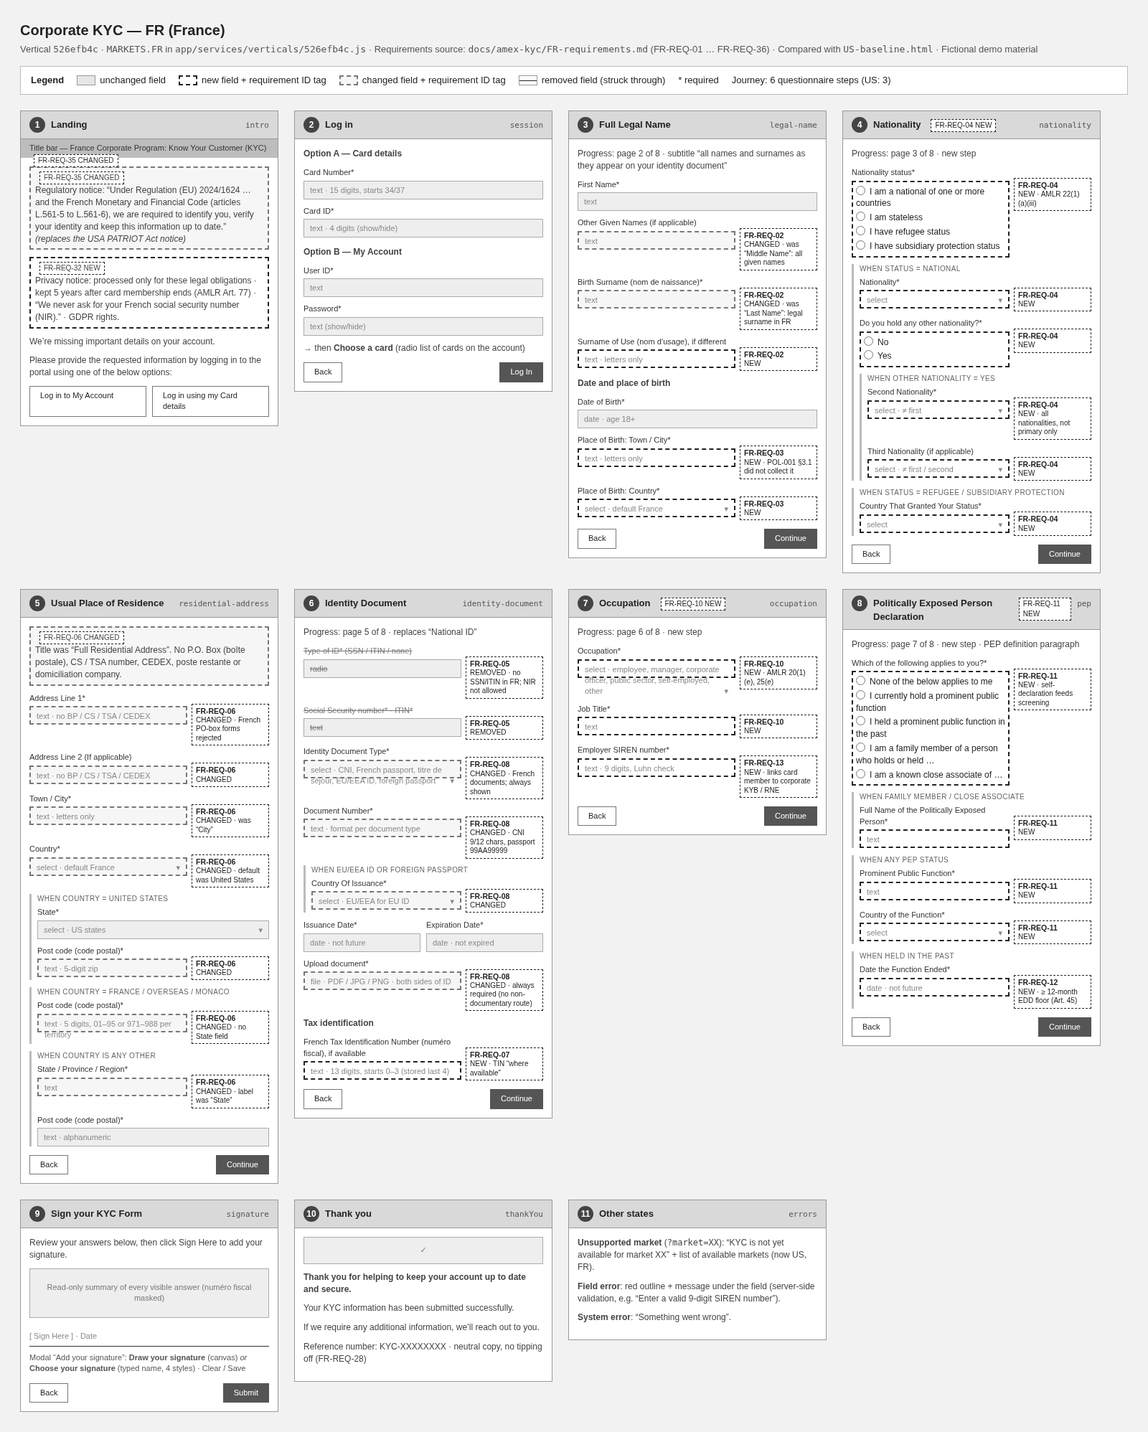
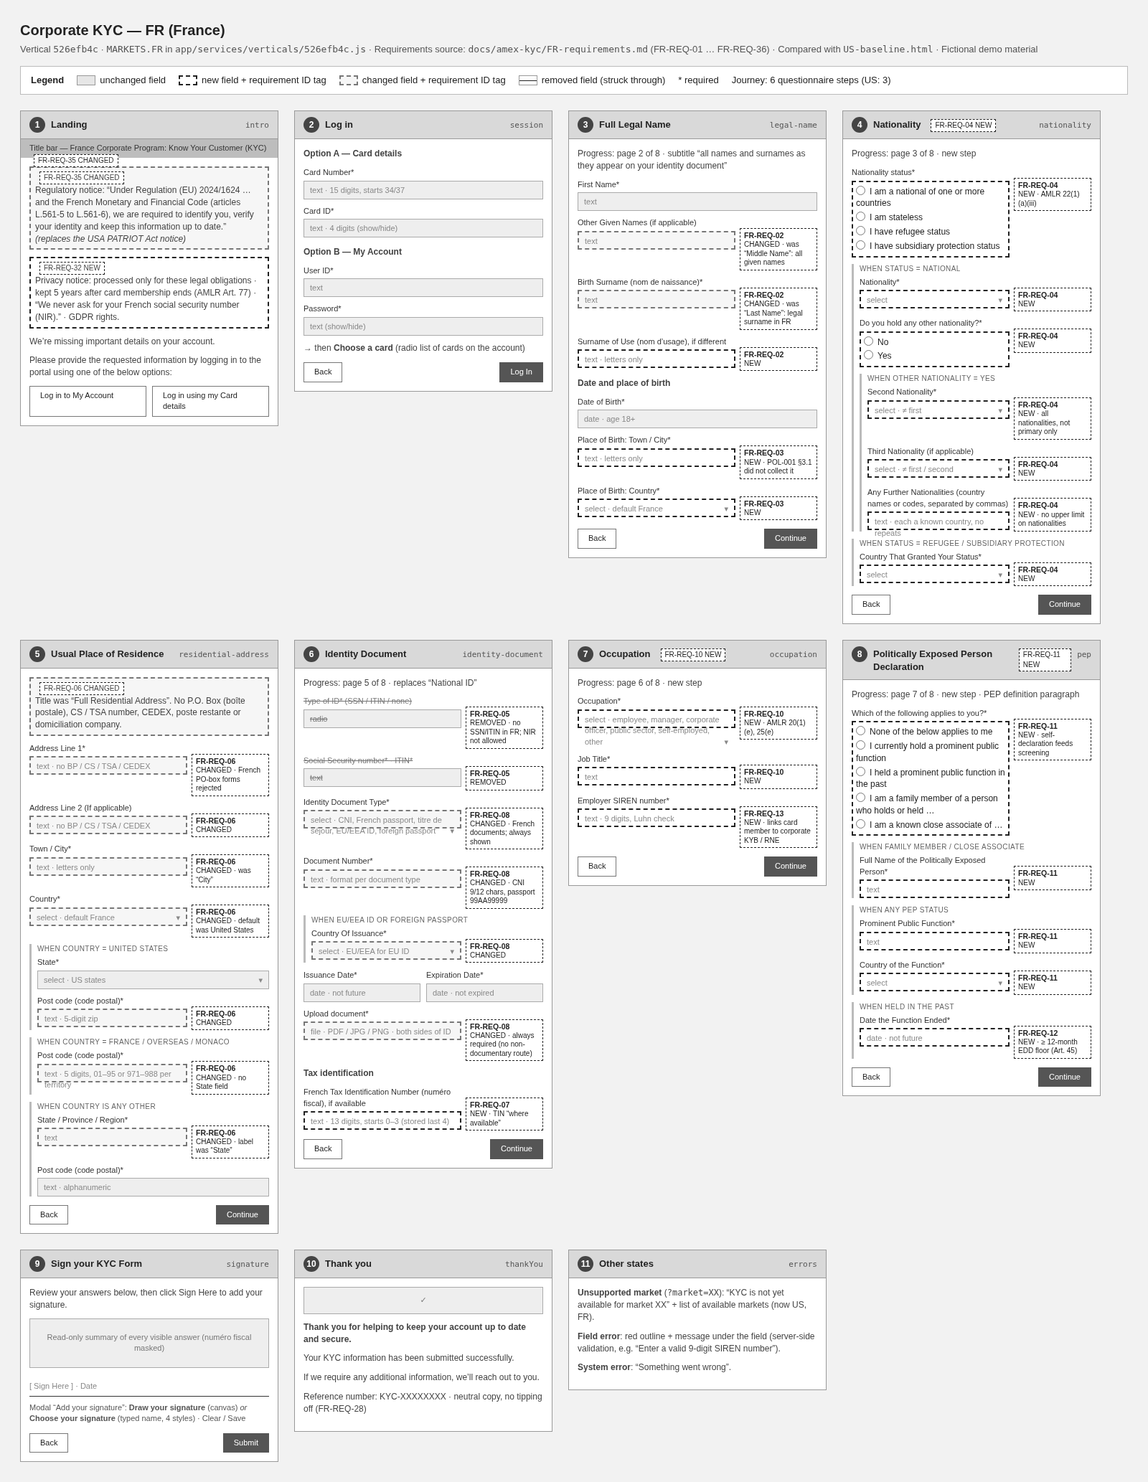
fix: FR questionnaire accepts any number of nationalities (furtherNationalities)

Changed region(s): [[0.0, 0.0, 0.9688, 0.994]]

diff --git a/docs/amex-kyc/wireframes/FR.html b/docs/amex-kyc/wireframes/FR.html
@@ -72,7 +72,7 @@
 <section class="panel"><div class="ph"><span class="n">1</span>Landing<code>intro</code></div><div class="pb"><div class="bar">Title bar — France Corporate Program: Know Your Customer (KYC) <span class="ptag">FR-REQ-35 CHANGED</span></div><p class="p chg"><span class="ptag">FR-REQ-35 CHANGED</span><br>Regulatory notice: “Under Regulation (EU) 2024/1624 … and the French Monetary and Financial Code (articles L.561-5 to L.561-6), we are required to identify you, verify your identity and keep this information up to date.” <i>(replaces the USA PATRIOT Act notice)</i></p><p class="p new"><span class="ptag">FR-REQ-32 NEW</span><br>Privacy notice: processed only for these legal obligations · kept 5 years after card membership ends (AMLR Art. 77) · “We never ask for your French social security number (NIR).” · GDPR rights.</p><p class="p">We’re missing important details on your account.</p><p class="p">Please provide the requested information by logging in to the portal using one of the below options:</p><div class="row2"><div class="btn">Log in to My Account</div><div class="btn">Log in using my Card details</div></div></div></section>
 <section class="panel"><div class="ph"><span class="n">2</span>Log in<code>session</code></div><div class="pb"><p class="p"><b>Option A — Card details</b></p><div class="f"><label>Card Number*</label><div class="in">text · 15 digits, starts 34/37</div></div><div class="f"><label>Card ID*</label><div class="in">text · 4 digits (show/hide)</div></div><p class="p" style="margin-top:12px"><b>Option B — My Account</b></p><div class="f"><label>User ID*</label><div class="in">text</div></div><div class="f"><label>Password*</label><div class="in">text (show/hide)</div></div><p class="p">→ then <b>Choose a card</b> (radio list of cards on the account)</p><div class="btns"><span class="btn">Back</span><span class="btn pri">Log In</span></div></div></section>
 <section class="panel"><div class="ph"><span class="n">3</span>Full Legal Name<code>legal-name</code></div><div class="pb"><p class="p">Progress: page 2 of 8 · subtitle “all names and surnames as they appear on your identity document”</p><div class="f"><label>First Name*</label><div class="in">text</div></div><div class="f chg tagged"><div><label>Other Given Names (if applicable)</label><div class="in">text</div></div><div class="tag"><b>FR-REQ-02</b>CHANGED · was “Middle Name”: all given names</div></div><div class="f chg tagged"><div><label>Birth Surname (nom de naissance)*</label><div class="in">text</div></div><div class="tag"><b>FR-REQ-02</b>CHANGED · was “Last Name”: legal surname in FR</div></div><div class="f new tagged"><div><label>Surname of Use (nom d’usage), if different</label><div class="in">text · letters only</div></div><div class="tag"><b>FR-REQ-02</b>NEW</div></div><p class="p"><b>Date and place of birth</b></p><div class="f"><label>Date of Birth*</label><div class="in">date · age 18+</div></div><div class="f new tagged"><div><label>Place of Birth: Town / City*</label><div class="in">text · letters only</div></div><div class="tag"><b>FR-REQ-03</b>NEW · POL-001 §3.1 did not collect it</div></div><div class="f new tagged"><div><label>Place of Birth: Country*</label><div class="in sel">select · default France</div></div><div class="tag"><b>FR-REQ-03</b>NEW</div></div><div class="btns"><span class="btn">Back</span><span class="btn pri">Continue</span></div></div></section>
-<section class="panel"><div class="ph"><span class="n">4</span>Nationality<span class="ptag">FR-REQ-04 NEW</span><code>nationality</code></div><div class="pb"><p class="p">Progress: page 3 of 8 · new step</p><div class="f new tagged"><div><label>Nationality status*</label><div class="radio-box"><div class="radio">I am a national of one or more countries</div><div class="radio">I am stateless</div><div class="radio">I have refugee status</div><div class="radio">I have subsidiary protection status</div></div></div><div class="tag"><b>FR-REQ-04</b>NEW · AMLR 22(1)(a)(iii)</div></div><div class="cond"><div class="when">when status = national</div><div class="f new tagged"><div><label>Nationality*</label><div class="in sel">select</div></div><div class="tag"><b>FR-REQ-04</b>NEW</div></div><div class="f new tagged"><div><label>Do you hold any other nationality?*</label><div class="radio-box"><div class="radio">No</div><div class="radio">Yes</div></div></div><div class="tag"><b>FR-REQ-04</b>NEW</div></div><div class="cond"><div class="when">when other nationality = Yes</div><div class="f new tagged"><div><label>Second Nationality*</label><div class="in sel">select · ≠ first</div></div><div class="tag"><b>FR-REQ-04</b>NEW · all nationalities, not primary only</div></div><div class="f new tagged"><div><label>Third Nationality (if applicable)</label><div class="in sel">select · ≠ first / second</div></div><div class="tag"><b>FR-REQ-04</b>NEW</div></div></div></div><div class="cond"><div class="when">when status = refugee / subsidiary protection</div><div class="f new tagged"><div><label>Country That Granted Your Status*</label><div class="in sel">select</div></div><div class="tag"><b>FR-REQ-04</b>NEW</div></div></div><div class="btns"><span class="btn">Back</span><span class="btn pri">Continue</span></div></div></section>
+<section class="panel"><div class="ph"><span class="n">4</span>Nationality<span class="ptag">FR-REQ-04 NEW</span><code>nationality</code></div><div class="pb"><p class="p">Progress: page 3 of 8 · new step</p><div class="f new tagged"><div><label>Nationality status*</label><div class="radio-box"><div class="radio">I am a national of one or more countries</div><div class="radio">I am stateless</div><div class="radio">I have refugee status</div><div class="radio">I have subsidiary protection status</div></div></div><div class="tag"><b>FR-REQ-04</b>NEW · AMLR 22(1)(a)(iii)</div></div><div class="cond"><div class="when">when status = national</div><div class="f new tagged"><div><label>Nationality*</label><div class="in sel">select</div></div><div class="tag"><b>FR-REQ-04</b>NEW</div></div><div class="f new tagged"><div><label>Do you hold any other nationality?*</label><div class="radio-box"><div class="radio">No</div><div class="radio">Yes</div></div></div><div class="tag"><b>FR-REQ-04</b>NEW</div></div><div class="cond"><div class="when">when other nationality = Yes</div><div class="f new tagged"><div><label>Second Nationality*</label><div class="in sel">select · ≠ first</div></div><div class="tag"><b>FR-REQ-04</b>NEW · all nationalities, not primary only</div></div><div class="f new tagged"><div><label>Third Nationality (if applicable)</label><div class="in sel">select · ≠ first / second</div></div><div class="tag"><b>FR-REQ-04</b>NEW</div></div><div class="f new tagged"><div><label>Any Further Nationalities (country names or codes, separated by commas)</label><div class="in">text · each a known country, no repeats</div></div><div class="tag"><b>FR-REQ-04</b>NEW · no upper limit on nationalities</div></div></div></div><div class="cond"><div class="when">when status = refugee / subsidiary protection</div><div class="f new tagged"><div><label>Country That Granted Your Status*</label><div class="in sel">select</div></div><div class="tag"><b>FR-REQ-04</b>NEW</div></div></div><div class="btns"><span class="btn">Back</span><span class="btn pri">Continue</span></div></div></section>
 <section class="panel"><div class="ph"><span class="n">5</span>Usual Place of Residence<code>residential-address</code></div><div class="pb"><p class="p chg"><span class="ptag">FR-REQ-06 CHANGED</span><br>Title was “Full Residential Address”. No P.O. Box (boîte postale), CS / TSA number, CEDEX, poste restante or domiciliation company.</p><div class="f chg tagged"><div><label>Address Line 1*</label><div class="in">text · no BP / CS / TSA / CEDEX</div></div><div class="tag"><b>FR-REQ-06</b>CHANGED · French PO-box forms rejected</div></div><div class="f chg tagged"><div><label>Address Line 2 (If applicable)</label><div class="in">text · no BP / CS / TSA / CEDEX</div></div><div class="tag"><b>FR-REQ-06</b>CHANGED</div></div><div class="f chg tagged"><div><label>Town / City*</label><div class="in">text · letters only</div></div><div class="tag"><b>FR-REQ-06</b>CHANGED · was “City”</div></div><div class="f chg tagged"><div><label>Country*</label><div class="in sel">select · default France</div></div><div class="tag"><b>FR-REQ-06</b>CHANGED · default was United States</div></div><div class="cond"><div class="when">when Country = United States</div><div class="f"><label>State*</label><div class="in sel">select · US states</div></div><div class="f chg tagged"><div><label>Post code (code postal)*</label><div class="in">text · 5-digit zip</div></div><div class="tag"><b>FR-REQ-06</b>CHANGED</div></div></div><div class="cond"><div class="when">when Country = France / overseas / Monaco</div><div class="f chg tagged"><div><label>Post code (code postal)*</label><div class="in">text · 5 digits, 01–95 or 971–988 per territory</div></div><div class="tag"><b>FR-REQ-06</b>CHANGED · no State field</div></div></div><div class="cond"><div class="when">when Country is any other</div><div class="f chg tagged"><div><label>State / Province / Region*</label><div class="in">text</div></div><div class="tag"><b>FR-REQ-06</b>CHANGED · label was “State”</div></div><div class="f"><label>Post code (code postal)*</label><div class="in">text · alphanumeric</div></div></div><div class="btns"><span class="btn">Back</span><span class="btn pri">Continue</span></div></div></section>
 <section class="panel"><div class="ph"><span class="n">6</span>Identity Document<code>identity-document</code></div><div class="pb"><p class="p">Progress: page 5 of 8 · replaces “National ID”</p><div class="f rem tagged"><div><label>Type of ID* (SSN / ITIN / none)</label><div class="in">radio</div></div><div class="tag"><b>FR-REQ-05</b>REMOVED · no SSN/ITIN in FR; NIR not allowed</div></div><div class="f rem tagged"><div><label>Social Security number* · ITIN*</label><div class="in">text</div></div><div class="tag"><b>FR-REQ-05</b>REMOVED</div></div><div class="f chg tagged"><div><label>Identity Document Type*</label><div class="in sel">select · CNI, French passport, titre de séjour, EU/EEA ID, foreign passport</div></div><div class="tag"><b>FR-REQ-08</b>CHANGED · French documents; always shown</div></div><div class="f chg tagged"><div><label>Document Number*</label><div class="in">text · format per document type</div></div><div class="tag"><b>FR-REQ-08</b>CHANGED · CNI 9/12 chars, passport 99AA99999</div></div><div class="cond"><div class="when">when EU/EEA ID or foreign passport</div><div class="f chg tagged"><div><label>Country Of Issuance*</label><div class="in sel">select · EU/EEA for EU ID</div></div><div class="tag"><b>FR-REQ-08</b>CHANGED</div></div></div><div class="row2"><div class="f"><label>Issuance Date*</label><div class="in">date · not future</div></div><div class="f"><label>Expiration Date*</label><div class="in">date · not expired</div></div></div><div class="f chg tagged"><div><label>Upload document*</label><div class="in">file · PDF / JPG / PNG · both sides of ID</div></div><div class="tag"><b>FR-REQ-08</b>CHANGED · always required (no non-documentary route)</div></div><p class="p"><b>Tax identification</b></p><div class="f new tagged"><div><label>French Tax Identification Number (numéro fiscal), if available</label><div class="in">text · 13 digits, starts 0–3 (stored last 4)</div></div><div class="tag"><b>FR-REQ-07</b>NEW · TIN “where available”</div></div><div class="btns"><span class="btn">Back</span><span class="btn pri">Continue</span></div></div></section>
 <section class="panel"><div class="ph"><span class="n">7</span>Occupation<span class="ptag">FR-REQ-10 NEW</span><code>occupation</code></div><div class="pb"><p class="p">Progress: page 6 of 8 · new step</p><div class="f new tagged"><div><label>Occupation*</label><div class="in sel">select · employee, manager, corporate officer, public sector, self-employed, other</div></div><div class="tag"><b>FR-REQ-10</b>NEW · AMLR 20(1)(e), 25(e)</div></div><div class="f new tagged"><div><label>Job Title*</label><div class="in">text</div></div><div class="tag"><b>FR-REQ-10</b>NEW</div></div><div class="f new tagged"><div><label>Employer SIREN number*</label><div class="in">text · 9 digits, Luhn check</div></div><div class="tag"><b>FR-REQ-13</b>NEW · links card member to corporate KYB / RNE</div></div><div class="btns"><span class="btn">Back</span><span class="btn pri">Continue</span></div></div></section>

diff --git a/tests/526efb4c-kyc.test.js b/tests/526efb4c-kyc.test.js
@@ -293,7 +293,7 @@ describe('France (FR) market', () => {
     expect(form.intro.privacyNotice).toMatch(/NIR/);
     expect(form.steps.map((s) => s.id)).toEqual(['legal-name', 'nationality', 'residential-address', 'identity-document', 'occupation', 'pep']);
     const ids = form.steps.flatMap((s) => s.fields.map((f) => f.id));
-    for (const id of ['usageName', 'birthCity', 'birthCountry', 'nationalityStatus', 'secondNationality', 'idDocumentType', 'taxIdNumber', 'employerSiren', 'pepStatus']) {
+    for (const id of ['usageName', 'birthCity', 'birthCountry', 'nationalityStatus', 'secondNationality', 'furtherNationalities', 'idDocumentType', 'taxIdNumber', 'employerSiren', 'pepStatus']) {
       expect(ids).toContain(id);
     }
     for (const banned of ['ssn', 'itin', 'idType']) expect(ids).not.toContain(banned);
@@ -324,6 +324,10 @@ describe('France (FR) market', () => {
     expect(errs('nationality', { secondNationality: 'FR' }).secondNationality).toMatch(/already/);
     expect(errs('nationality', { thirdNationality: 'US' }).thirdNationality).toMatch(/already/);
     expect(errs('nationality', { thirdNationality: 'DE' }).thirdNationality).toBeUndefined();
+    expect(errs('nationality', { thirdNationality: 'CA', furtherNationalities: 'Belgium, it, Switzerland' })).toEqual({});
+    expect(errs('nationality', { thirdNationality: 'CA', furtherNationalities: 'BE, Narnia' }).furtherNationalities).toMatch(/Narnia/);
+    expect(errs('nationality', { thirdNationality: 'CA', furtherNationalities: 'canada' }).furtherNationalities).toMatch(/already/);
+    expect(errs('nationality', { furtherNationalities: 'BE, Belgium' }).furtherNationalities).toMatch(/already/);
     expect(validate('nationality', { nationalityStatus: 'national', nationality: 'FR', hasOtherNationality: 'no', secondNationality: 'FR' }).valid).toBe(true);
     expect(Object.keys(validate('nationality', { nationalityStatus: 'refugee' }).errors)).toEqual(['protectionCountry']);
     expect(validate('nationality', { nationalityStatus: 'subsidiary-protection', protectionCountry: 'FR' }).valid).toBe(true);
@@ -338,6 +342,7 @@ describe('France (FR) market', () => {
     const byId = Object.fromEntries(fields.map((f) => [f.id, f]));
     const visible = fields.filter((f) => svc.isVisible(f, values, byId)).map((f) => f.id);
     expect(visible).toEqual(['nationalityStatus']);
+    expect(validate('nationality', { ...values, furtherNationalities: 'Narnia' }).valid).toBe(true);
   });
 
   test('residence: French post codes per territory and no BP / CS / TSA / CEDEX addresses', () => {
@@ -410,11 +415,11 @@ describe('France (FR) market', () => {
     expect(Object.keys(invalid.body.errors)).toEqual(['pep']);
 
     const ok = await request('POST', '/api/526efb4c/submissions', {
-      sessionToken: token, market: 'FR', values: { ...FR_VALID, ssn: '123-45-6789', protectionCountry: 'FR' }, signature: SIGNATURE,
+      sessionToken: token, market: 'FR', values: { ...FR_VALID, furtherNationalities: 'BE, CA', ssn: '123-45-6789', protectionCountry: 'FR' }, signature: SIGNATURE,
     });
     expect(ok.status).toBe(201);
     expect(ok.body.market).toBe('FR');
-    expect(ok.body.answers).toMatchObject({ birthCity: 'Lyon', secondNationality: 'US', employerSiren: '842 917 361', taxIdNumber: '***-**-0123' });
+    expect(ok.body.answers).toMatchObject({ birthCity: 'Lyon', secondNationality: 'US', furtherNationalities: 'BE, CA', employerSiren: '842 917 361', taxIdNumber: '***-**-0123' });
     expect(JSON.stringify(ok.body)).not.toContain('1234567890123');
     expect(ok.body.answers.ssn).toBeUndefined();
     expect(ok.body.answers.protectionCountry).toBeUndefined();

diff --git a/app/services/verticals/526efb4c.js b/app/services/verticals/526efb4c.js
@@ -102,6 +102,8 @@ const FR_POSTAL_COUNTRIES = Object.keys(FR_POSTAL_PREFIXES);
 const EU_EEA = ['AT', 'BE', 'BG', 'CY', 'CZ', 'DE', 'DK', 'EE', 'ES', 'FI', 'FR', 'GR', 'HR', 'HU', 'IE', 'IS', 'IT',
   'LI', 'LT', 'LU', 'LV', 'MT', 'NL', 'NO', 'PL', 'PT', 'RO', 'SE', 'SI', 'SK'];
 
+const COUNTRY_BY_NAME = new Map(COUNTRIES.flatMap(([code, name]) => [[code.toLowerCase(), code], [name.toLowerCase(), code]]));
+
 const PEP_STATUSES = ['pep', 'former-pep', 'family', 'associate'];
 
 const MARKETS = {
@@ -272,6 +274,11 @@ const MARKETS = {
           {
             id: 'thirdNationality', label: 'Third Nationality (if applicable)', type: 'select', required: false, options: COUNTRY_OPTIONS,
             rule: { name: 'distinctNationality', from: ['nationality', 'secondNationality'] },
+            showWhen: { field: 'hasOtherNationality', equals: 'yes' },
+          },
+          {
+            id: 'furtherNationalities', label: 'Any Further Nationalities (country names or codes, separated by commas)', type: 'text',
+            required: false, rule: { name: 'nationalityList', from: ['nationality', 'secondNationality', 'thirdNationality'] },
             showWhen: { field: 'hasOtherNationality', equals: 'yes' },
           },
           {
@@ -635,6 +642,16 @@ const RULES = {
   distinctNationality: (v, values, _today, rule) => (
     rule.from.some((id) => values[id] === v) ? 'Choose a nationality you have not already entered' : null
   ),
+  nationalityList: (v, values, _today, rule) => {
+    const seen = new Set(rule.from.map((id) => values[id]).filter(Boolean));
+    for (const entry of v.split(',').map((s) => s.trim()).filter(Boolean)) {
+      const code = COUNTRY_BY_NAME.get(entry.toLowerCase());
+      if (!code) return `\u201c${entry}\u201d is not a recognised country`;
+      if (seen.has(code)) return 'Choose a nationality you have not already entered';
+      seen.add(code);
+    }
+    return null;
+  },
   noPoBoxFr: (v) => (PO_BOX.test(v) || FR_NON_RESIDENTIAL.test(v)
     ? 'P.O. Boxes (BP), CS / TSA numbers, CEDEX, poste restante and private mailboxes cannot be used as a residential address'
     : null),

diff --git a/docs/amex-kyc/FR-requirements.md b/docs/amex-kyc/FR-requirements.md
@@ -35,7 +35,7 @@
 | FR-REQ-01 | Apply CDD when establishing a relationship, on suspicion, on doubts about the data, and on doubts about who is acting. | AMLR Art. 19(1)(a), (d), (e), (f) · CMF L.561-5 | POL-001 §2.1–2.4 (`POL-001-2.1`…`POL-001-2.4`), POL-002 §2.1–2.3 (`POL-002-2.1`, `POL-002-2.2`) | aligned | None: the portal is itself the CDD trigger for existing card members. |
 | FR-REQ-02 | Identify the person by **all names and surnames**. In France the birth surname (nom de naissance) is the legal surname, and a surname of use (nom d'usage) may also appear on the ID. | AMLR Art. 22(1)(a)(i) · CMF R.561-5 | POL-001 §3.1 `fullLegalName` (`POL-001-3.1`) | gap | **Changed:** *Other Given Names (if applicable)* replaces *Middle Name*; *Birth Surname (nom de naissance)* replaces *Last Name*. **New:** *Surname of Use (nom d'usage), if different* (optional, `personName` rule). |
 | FR-REQ-03 | Collect **place and full date of birth**. | AMLR Art. 22(1)(a)(ii); Art. 62(1)(a) for beneficial owners · CMF R.561-5 | POL-001 §3.1 `placeOfBirth: not_collected` (`POL-001-3.1`) | gap ⚠ | **New:** *Place of Birth: Town / City* (required, `placeName` rule) and *Place of Birth: Country* (required select, default France). |
-| FR-REQ-04 | Collect **every nationality**, or statelessness and refugee or subsidiary-protection status where applicable. | AMLR Art. 22(1)(a)(iii) | POL-001 §3.1 `nationality: primary_only` (`POL-001-3.1`) | gap ⚠ | **New step *Nationality*:** status radio; *Nationality*; *Do you hold any other nationality?*; *Second* and *Third Nationality* (they must differ, `distinctNationality` rule); *Country That Granted Your Status* for refugees or subsidiary protection. |
+| FR-REQ-04 | Collect **every nationality**, or statelessness and refugee or subsidiary-protection status where applicable. | AMLR Art. 22(1)(a)(iii) | POL-001 §3.1 `nationality: primary_only` (`POL-001-3.1`) | gap ⚠ | **New step *Nationality*:** status radio; *Nationality*; *Do you hold any other nationality?*; *Second* and *Third Nationality* (they must differ, `distinctNationality` rule); *Any Further Nationalities* (comma-separated country names or codes, each recognised and not repeated, `nationalityList` rule) so there is no upper limit; *Country That Granted Your Status* for refugees or subsidiary protection. |
 | FR-REQ-05 | Collect the national identification number "where applicable". France has no general-purpose national ID number for KYC. The NIR (social-security number) may only be processed for purposes listed by decree, and AML identification is not one of them, so it must not be asked for. | AMLR Art. 22(1)(a)(iii) · Décret n° 2019-341 (NIR framework decree) · GDPR Art. 87 | POL-001 §3.1 `identificationNumber: required` (US: SSN/ITIN) (`POL-001-3.1`) | gap | **Removed:** *Type of ID*, *Social Security number*, *ITIN*. The identity-document number (FR-REQ-08) is the identifier. The privacy notice states that the NIR is never requested. |
 | FR-REQ-06 | Record the **usual place of residence**. A postal address is only allowed where there is no fixed residential address. | AMLR Art. 22(1)(a)(iv) · CMF R.561-5 | POL-001 §3.1 `residentialAddress` (no P.O. boxes) (`POL-001-3.1`) | aligned | **Changed:** step title *Usual Place of Residence*; country defaults to France; *Post code (code postal)* checks 5 digits against the département range (01–95) or the overseas prefix (971–978, 980, 986–988) of the country chosen; *State / Province / Region* is hidden for France, its overseas territories and Monaco; Address Lines reject BP, CS, TSA, CEDEX and poste restante (`noPoBoxFr`, `postalCodeFr`). |
 | FR-REQ-07 | Record the **tax identification number where available**. | AMLR Art. 22(1)(a)(iv) | POL-001 §3.1 `taxIdentificationNumber: us_persons_only` (`POL-001-3.1`) | gap | **New:** *French Tax Identification Number (numéro fiscal), if available*. Optional, 13 digits starting with 0–3 (`frTaxId`), redacted in storage and on the review page. |

diff --git a/docs/amex-kyc/FR-addendum.md b/docs/amex-kyc/FR-addendum.md
@@ -101,6 +101,7 @@ Condensed from [`FR-requirements.md`](FR-requirements.md) §2, with the required
 | `nationality` | `hasOtherNationality` | radio `no` / `yes` | Yes, if `national` | option | FR-REQ-04 |
 | `nationality` | `secondNationality` | select | Yes, if `yes` | `distinctNationality` (≠ `nationality`) | FR-REQ-04 |
 | `nationality` | `thirdNationality` | select | No (shown if `yes`) | `distinctNationality` (≠ first and second) | FR-REQ-04 |
+| `nationality` | `furtherNationalities` | text: comma-separated country names or ISO codes | No (shown if `yes`) | `nationalityList` (each entry a recognised country, no repeats of earlier answers) | FR-REQ-04 |
 | `nationality` | `protectionCountry` | select | Yes, if `refugee` / `subsidiary-protection` | listed country | FR-REQ-04 |
 | `residential-address` | `addressLine1`, `addressLine2` | text | Yes / No | `noPoBoxFr` (US PO box + BP, CS, TSA, CEDEX, poste restante, boîte postale) | FR-REQ-06 |
 | `residential-address` | `city`: label *Town / City* | text | Yes | `placeName` | FR-REQ-06 |
